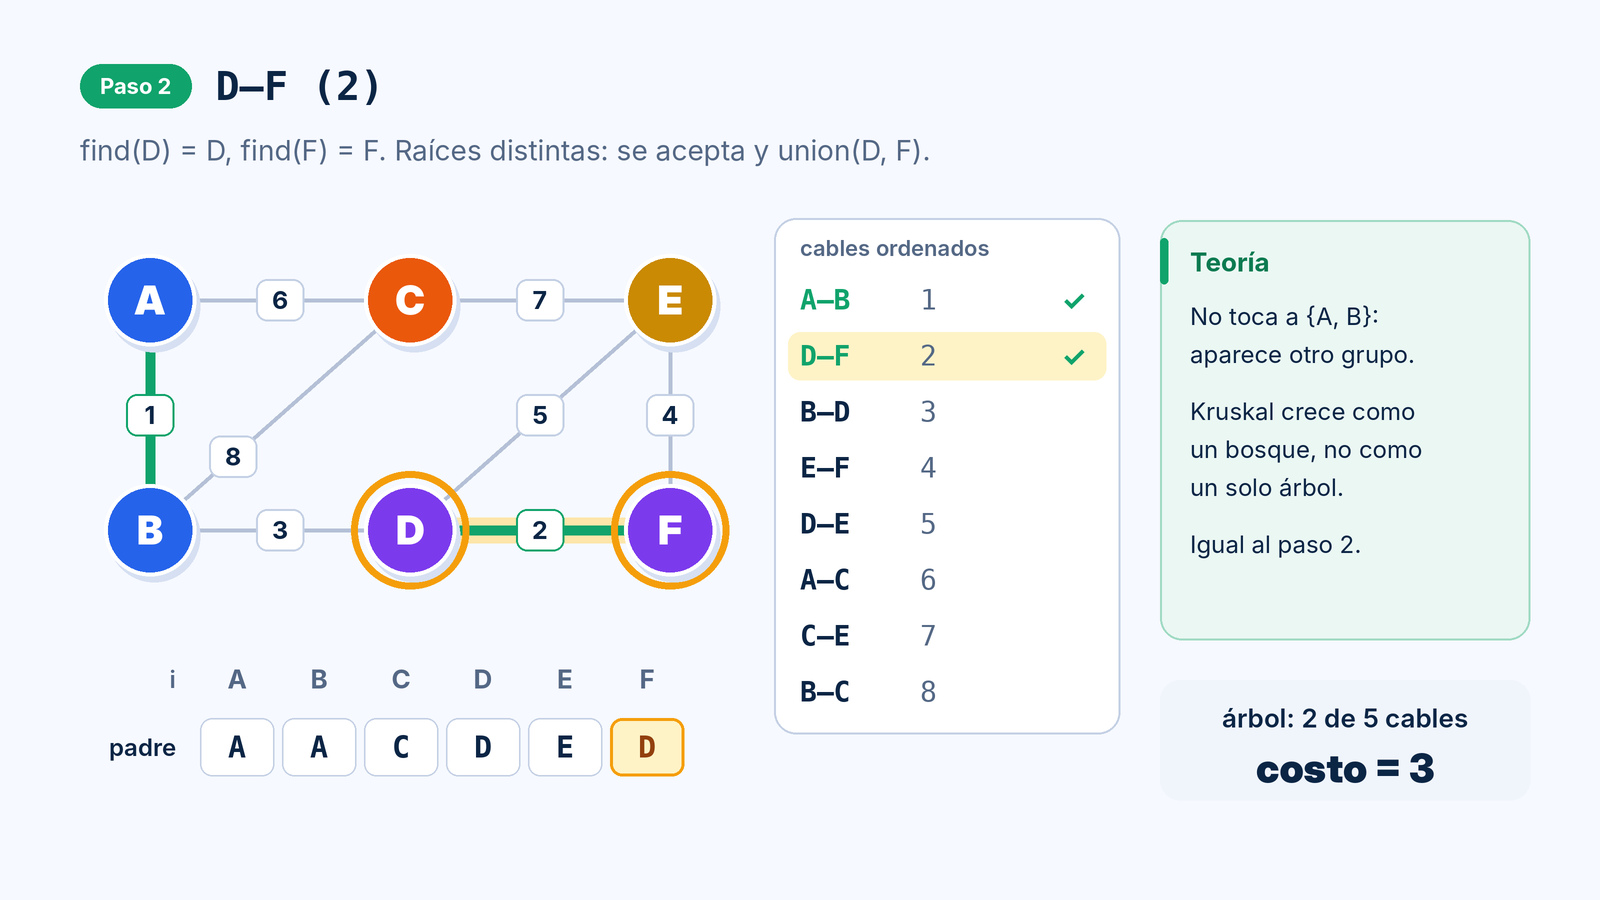
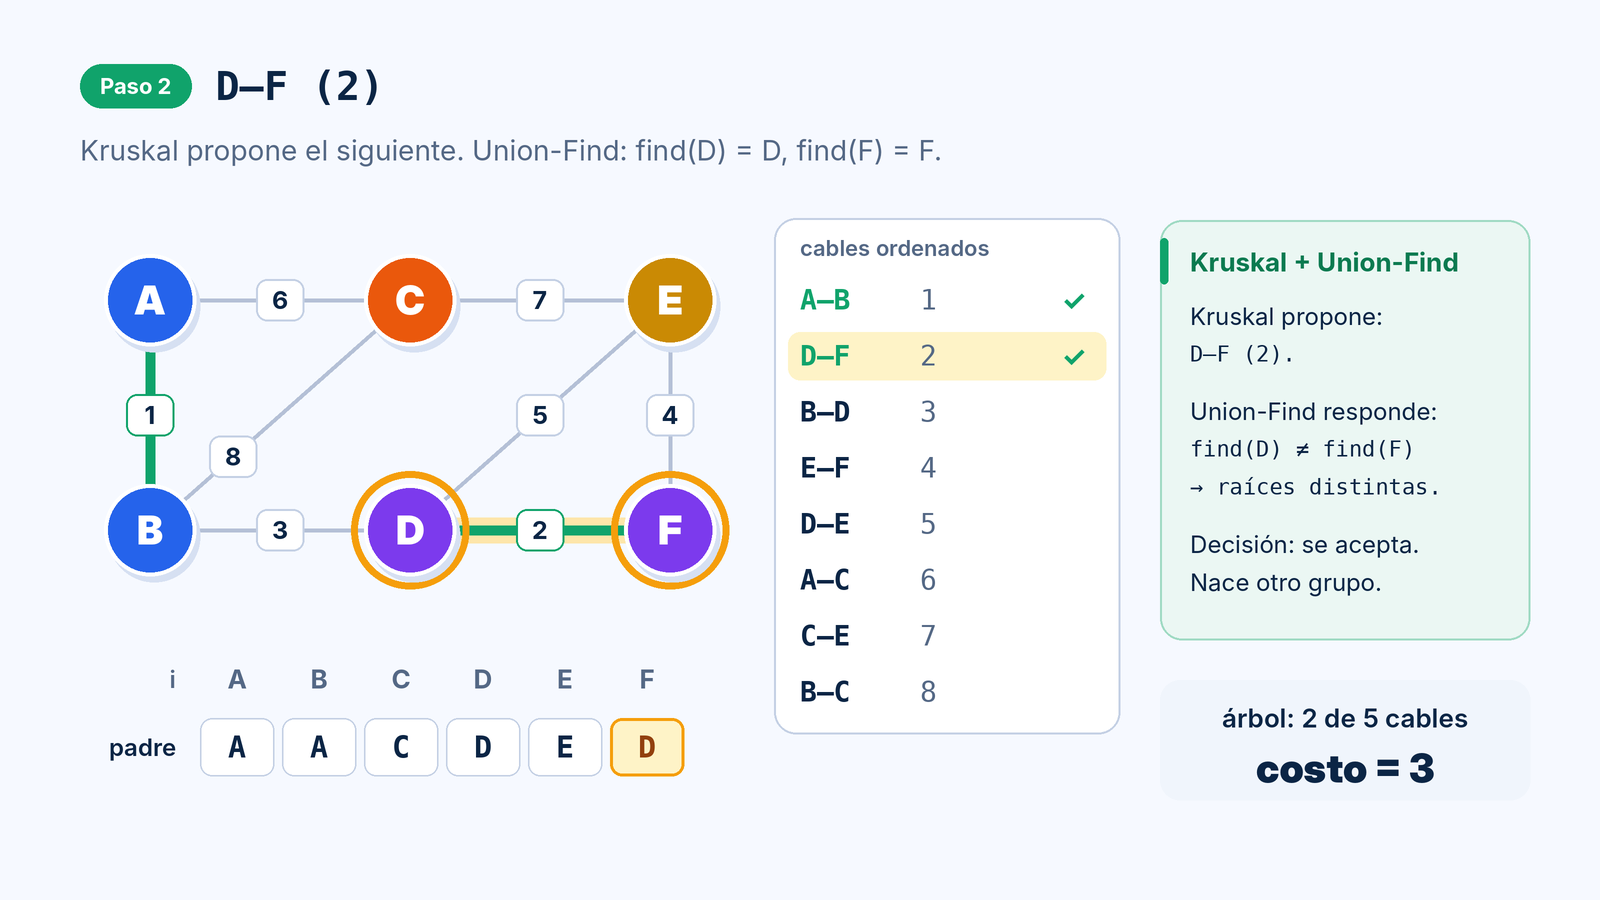
Datos

diff --git a/docs/index.html b/docs/index.html
@@ -203,7 +203,7 @@ function kruskalTrace(){
   const log=[["h","Cables ordenados: "+CABLES.map(([w,u,v])=>`${u}-${v}(${w})`).join(", ")]];
   steps.push({op:"ordenar cables", tag:"Paso 0", color:"blue", cur:-1, st:[...st], costo, arbol, log:[...log], uf:clone(uf),
     desc:"Se ordenan los 8 cables de menor a mayor costo. Nadie está conectado todavía.",
-    th:["Kruskal es voraz","1) ordenar por costo · 2) tomar cada cable si no forma ciclo · 3) parar al tener V − 1 cables (aquí 5). El paso 2 lo resuelve Union-Find."]});
+    th:["Kruskal decide el orden; Union-Find, el sí o el no","Con cada cable: Kruskal propone el siguiente más barato, Union-Find responde si sus dos computadoras tienen la misma raíz, y se decide. Misma raíz: ciclo, se descarta. Raíces distintas: se acepta y union las junta. Se para al tener V − 1 = 5 cables."]});
   const TH = {
     "A-B":["Raíces distintas","find(A)=A y find(B)=B: no hay camino entre A y B. Se acepta y union los junta. Es el paso 1 de la sección 1."],
     "D-F":["Crece como bosque","D–F no toca a {A, B}: aparece un segundo grupo. Kruskal no crece como un solo árbol sino como un bosque que se va uniendo."],
@@ -219,7 +219,7 @@ function kruskalTrace(){
              ["s",`   padre = [${uf.padre.map(p=>N[p]).join(", ")}]   árbol: ${arbol} de 5   costo = ${costo}`]);
     const key=`${u}-${v}`;
     steps.push({op:`${u}–${v} (${w})`, tag:`Paso ${i+1}`, color: ok?"green":"red", cur:i, st:[...st], costo, arbol, uf:clone(uf), log:[...log], focus:[u,v],
-      result: ok?"acepta":"rechaza", desc:`find(${u}) = ${N[ru]}, find(${v}) = ${N[rv]}. ` + (ok?"Raíces distintas: se acepta el cable y se hace union.":"Misma raíz: el cable cerraría un ciclo, se descarta."),
+      result: ok?"acepta":"rechaza", desc:`Kruskal propone ${u}–${v} (${w}). Union-Find: find(${u}) = ${N[ru]}, find(${v}) = ${N[rv]}. ` + (ok?"Raíces distintas: no hay camino entre ellas, se acepta y union las junta.":"Misma raíz: ya hay camino entre ellas, el cable cerraría un ciclo y se descarta."),
       th:TH[key]});
     if(arbol===5) break;
   }

diff --git a/tools/gen_media.py b/tools/gen_media.py
@@ -270,12 +270,12 @@ uf_step(T + "paso7.png", "Paso 7", "cable A–C  ·  union(A, C)",
         badge=("True · red cerrada", GREEN, GREEN_BG), color=GREEN)
 
 # ================= Sección 2 · Kruskal =================
-def k_step(name, k, paso, titulo, sub, teoria, color, changed=()):
+def k_step(name, k, paso, titulo, sub, teoria, color, changed=(), ctitle="Kruskal + Union-Find"):
     c = Canvas(); header(c, paso, titulo, sub, color)
     par, rk, st, total, _ = kstate(k)
     draw_net(c, st, k, colors=[SET[root(par, i)] for i in range(6)] if k >= 0 else None)
     edge_list(c, st, k)
-    card(c, (1160, 220, 1530, 640), "Teoría", teoria, color, sz=24, gap=38)
+    card(c, (1160, 220, 1530, 640), ctitle, teoria, color, sz=24, gap=38)
     arrays(c, par, None, changed, y=650, x0=200, cw=74)
     acc = st.count("a")
     c.rect((1160, 680, 1530, 800), 20, fill=GREEN_BG if acc == 5 else (240, 245, 252))
@@ -284,20 +284,33 @@ def k_step(name, k, paso, titulo, sub, teoria, color, changed=()):
     c.save(name)
 
 T = "s2_"
-k_step(T + "paso0.png", -1, "Paso 0", "ordenar los cables", "Volvemos a empezar, pero ahora el orden lo decide el algoritmo: del cable más barato al más caro.",
-       ["Kruskal es voraz:", "", "1. ordenar por peso", "2. tomar el cable si", "   no forma ciclo", "3. parar con V − 1", "   cables (aquí 5)", "", "Para 2 usa Union-Find."], BLUE)
-k_step(T + "paso1.png", 0, "Paso 1", "A–B (1)", "find(A) = A, find(B) = B. Raíces distintas: se acepta y union(A, B).",
-       ["Raíces distintas", "  → no hay camino", "  entre A y B.", "", "Se acepta el cable", "y union los junta.", "", "Es el paso 1 de la", "sección 1."], GREEN, {(0, 1)})
-k_step(T + "paso2.png", 1, "Paso 2", "D–F (2)", "find(D) = D, find(F) = F. Raíces distintas: se acepta y union(D, F).",
-       ["No toca a {A, B}:", "aparece otro grupo.", "", "Kruskal crece como", "un bosque, no como", "un solo árbol.", "", "Igual al paso 2."], GREEN, {(0, 5)})
-k_step(T + "paso3.png", 2, "Paso 3", "B–D (3)", "find(B) = A, find(D) = D. Raíces distintas: se unen los dos grupos.",
-       ["Une {A, B} con {D, F}.", "", "Rangos 1 y 1:", "D cuelga de A y", "rango[A] = 2.", "", "Mismo resultado que", "el paso 3 de la", "sección 1."], GREEN, {(0, 3)})
-k_step(T + "paso4.png", 3, "Paso 4", "E–F (4)", "find(E) = E, find(F) = A (y F se comprime). Raíces distintas: se acepta.",
-       ["find(F): F → D → A", "y comprime: F → A.", "", "rango[E] = 0 < 2:", "E cuelga de A.", "", "Es el paso 4 de la", "sección 1."], GREEN, {(0, 4), (0, 5)})
-k_step(T + "paso5.png", 4, "Paso 5", "D–E (5)", "find(D) = A y find(E) = A. Misma raíz: el cable cerraría un ciclo, se descarta.",
-       ["Ya hay camino:", "  D – F – E", "", "union devuelve False", "  → se rechaza.", "", "Es el paso 6 de la", "sección 1."], RED)
-k_step(T + "paso6.png", 5, "Paso 6", "A–C (6)", "find(A) = A, find(C) = C. Se acepta: ya son 5 cables = V − 1. Termina.",
-       ["5 cables = V − 1", "  → árbol completo.", "", "C–E (7) y B–C (8)", "ni se revisan.", "", "Todas las raíces", "son A: un conjunto."], GREEN, {(0, 2)})
+k_step(T + "paso0.png", -1, "Paso 0", "Kruskal ordena los cables", "Primero se ordenan los 8 cables del más barato al más caro. Todavía nadie está conectado.",
+       ["Kruskal es voraz:", "", "1. ordenar por peso", "2. tomar el cable si", "   no forma ciclo", "3. parar con V − 1", "   cables (aquí 5)", "El punto 2 lo decide", "Union-Find."], BLUE, ctitle="Teoría")
+k_step(T + "paso1.png", 0, "Paso 1", "A–B (1)", "Kruskal propone el cable más barato. Union-Find: find(A) = A, find(B) = B.",
+       ["Kruskal propone:", "  A–B (1).", "", "Union-Find responde:", "  find(A) ≠ find(B)", "  → raíces distintas.", "", "Decisión: se acepta.", "B cuelga de A."], GREEN, {(0, 1)})
+k_step(T + "paso2.png", 1, "Paso 2", "D–F (2)", "Kruskal propone el siguiente. Union-Find: find(D) = D, find(F) = F.",
+       ["Kruskal propone:", "  D–F (2).", "", "Union-Find responde:", "  find(D) ≠ find(F)", "  → raíces distintas.", "", "Decisión: se acepta.", "Nace otro grupo."], GREEN, {(0, 5)})
+k_step(T + "paso3.png", 2, "Paso 3", "B–D (3)", "Union-Find compara raíces, no elementos: find(B) = A y find(D) = D.",
+       ["Kruskal propone:", "  B–D (3).", "", "Union-Find responde:", "  find(B) = A", "  find(D) = D", "", "Decisión: se acepta.", "Se unen los grupos."], GREEN, {(0, 3)})
+k_step(T + "paso4.png", 3, "Paso 4", "E–F (4)", "find(F) sube F → D → A y comprime el camino: F queda apuntando a A.",
+       ["Kruskal propone:", "  E–F (4).", "", "Union-Find responde:", "  find(E) = E", "  find(F) = A", "", "Decisión: se acepta.", "E cuelga de A."], GREEN, {(0, 4), (0, 5)})
+k_step(T + "paso5.png", 4, "Paso 5", "D–E (5)", "find(D) = A y find(E) = A. Misma raíz: ya están conectados por D–F–E.",
+       ["Kruskal propone:", "  D–E (5).", "", "Union-Find responde:", "  find(D) = find(E)", "  → misma raíz.", "", "Decisión: se descarta,", "cerraría un ciclo."], RED)
+k_step(T + "paso6.png", 5, "Paso 6", "A–C (6)", "find(A) = A, find(C) = C. C era la única sin conectar. Ya son 5 cables.",
+       ["Kruskal propone:", "  A–C (6).", "", "Union-Find responde:", "  find(A) ≠ find(C)", "", "Decisión: se acepta.", "5 cables = V − 1:", "Kruskal para."], GREEN, {(0, 2)})
+
+def k_apoyo(name):
+    c = Canvas(); header(c, "Apoyo", "Kruskal se apoya en Union-Find", "Con cada cable: Kruskal propone, Union-Find responde y se decide.", BLUE)
+    card(c, (80, 220, 520, 640), "Kruskal", ["Ordena los cables del", "más barato al más caro", "y propone uno por uno.", "", "Decide el orden."], GREEN, sz=26, gap=44)
+    card(c, (560, 220, 1040, 640), "Union-Find", ["Responde una sola cosa:", "", "  find(u) == find(v) ?", "", "¿Tienen la misma raíz?", "Decide el sí o el no."], BLUE, sz=26, gap=44)
+    card(c, (1080, 220, 1520, 420), "Raíces distintas", ["No hay camino → se acepta", "y union junta los grupos."], GREEN, sz=24, gap=40)
+    card(c, (1080, 440, 1520, 640), "Misma raíz", ["Ya hay camino → cerraría", "un ciclo → se descarta."], RED, sz=24, gap=40)
+    c.rect((80, 680, 1520, 850), 22, fill=(237, 233, 254))
+    c.text((800, 730), "El costo del cable solo decide el orden, nunca el sí o el no.", "bold", 30, (76, 29, 149), "mm")
+    c.text((800, 782), "D–E cuesta apenas 5 y aun así se descarta: D y E ya estaban conectados.", "reg", 27, INK, "mm")
+    c.text((800, 822), "Por dentro, unión por rango y compresión de caminos mantienen find casi constante.", "reg", 25, MUTED, "mm")
+    c.save(name)
+k_apoyo("s2_apoyo.png")
 
 def resultado(name):
     c = Canvas(); header(c, "Resultado", "Árbol de expansión mínima", "Las 6 computadoras conectadas, sin ciclos y con el menor costo.", GREEN)
@@ -320,8 +333,8 @@ resultado("s2_resultado.png")
 def problema(name):
     c = Canvas(); header(c, "El problema", "6 computadoras, 8 cables", "Hay que conectarlas todas gastando lo menos posible en cable.", INK)
     draw_net(c, ["p"] * 8, gx=170, gy=330, dx=310, dy=300)
-    qs = [(250, "¿A y F ya están conectadas?", "Sección 1 · Union-Find", "find(A) == find(F)", BLUE),
-          (470, "¿Qué cables compro?", "Sección 2 · Kruskal", "menor costo, sin ciclos", GREEN)]
+    qs = [(250, "¿Qué cables compro?", "Kruskal · propone del más barato al más caro", "menor costo, sin ciclos", GREEN),
+          (470, "¿Estas dos ya están conectadas?", "Union-Find · decide si el cable se acepta", "find(u) == find(v)", BLUE)]
     for y, q, s, d, col in qs:
         c.rect((900, y, 1530, y + 190), 24, fill=mix(col, WHITE, 0.9), outline=mix(col, WHITE, 0.55), w=2)
         c.text((935, y + 48), q, "bold", 30, INK, "lm")
@@ -333,7 +346,7 @@ problema("problema.png")
 
 def portada(name, num, titulo, sub, items, col):
     c = Canvas(); c.im.paste(mix(col, (8, 16, 40), 0.55), [0, 0, W * S, H * S])
-    c.text((110, 200), f"Sección {num}", "semi", 34, mix(col, WHITE, 0.6), "lm")
+    c.text((110, 200), num if isinstance(num, str) else f"Sección {num}", "semi", 34, mix(col, WHITE, 0.6), "lm")
     c.text((106, 300), titulo, "black", 120, WHITE, "lm")
     c.text((110, 400), sub, "reg", 32, mix(col, WHITE, 0.75), "lm")
     for i, it in enumerate(items):
@@ -343,8 +356,8 @@ def portada(name, num, titulo, sub, items, col):
     c.save(name)
 portada("s1_portada.png", 1, "Union-Find", "¿Estas dos computadoras ya están conectadas?",
         ["Teoría: cada grupo es un árbol", "Instalamos los primeros cables uno por uno", "Código y lo que imprime"], BLUE)
-portada("s2_portada.png", 2, "Kruskal", "¿Qué cables compro para conectarlas todas al menor costo?",
-        ["Teoría: algoritmo voraz + Union-Find", "Paso a paso sobre la misma red (6 pasos)", "Resultado, código y lo que imprime"], GREEN)
+portada("s2_portada.png", "Demo · paso a paso", "Kruskal + Union-Find", "¿Qué cables compro para conectarlas todas al menor costo?",
+        ["Kruskal ordena los cables de menor a mayor peso", "Union-Find decide cuáles se aceptan", "Resultado y código de los dos"], GREEN)
 
 def teoria_uf(name):
     c = Canvas(); header(c, "Teoría", "Union-Find", "Estructura para conjuntos disjuntos: cada conjunto es un árbol y su raíz lo representa.")

diff --git a/README.md b/README.md
@@ -385,57 +385,103 @@ def kruskal(n, aristas, verbose=False):
     return arbol, costo
 ```
 
-### Paso 0 · ordenar los cables
+### Quién decide qué
+
+Para que los dos algoritmos no se revuelvan, conviene separar sus trabajos. Con
+**cada cable** pasa lo mismo, siempre en este orden:
+
+| | Quién | Qué hace |
+|:---:|---|---|
+| 1 | **Kruskal** | Propone el siguiente cable más barato (por eso se ordenan al inicio). |
+| 2 | **Union-Find** | Responde una sola pregunta: ¿`find(u)` y `find(v)` tienen la **misma raíz**? |
+| 3 | **Decisión** | Misma raíz: ya hay camino entre ellas, el cable cerraría un ciclo y se **descarta**. Raíces distintas: se **acepta** y `union` junta los dos grupos. |
+
+**Kruskal decide el orden; Union-Find decide el sí o el no.** El costo del cable
+solo interviene en el orden en que se preguntan, nunca en la respuesta. Por eso
+un cable puede ser barato y aun así rechazarse: `D–E` cuesta 5, pero se descarta
+porque `D` y `E` ya estaban conectados.
+
+Al aceptar, `union` cuelga la raíz de menor rango de la de mayor rango (si
+empatan, una cuelga de la otra y su rango sube 1).
+
+### Paso 0 · Kruskal ordena los cables
 
 ![Paso 0](media/s2_paso0.png)
 
-Se ordenan los 8 cables de menor a mayor costo. Todavía nadie está conectado:
-cada computadora es su propio conjunto.
+- **Kruskal:** ordena los 8 cables de menor a mayor costo: `A–B (1)`, `D–F (2)`,
+  `B–D (3)`, `E–F (4)`, `D–E (5)`, `A–C (6)`, `C–E (7)`, `B–C (8)`.
+- **Union-Find:** `UnionFind(6)`. Cada computadora es su propio conjunto.
+- **Estado:** `conjuntos = 6` · árbol 0 de 5 · costo 0. Todavía no se decide nada.
 
-### Paso 1 · `A–B (1)` ✓
+### Paso 1 · `A–B (1)` ✓ se acepta
 
 ![Paso 1](media/s2_paso1.png)
 
-`find(A) = A`, `find(B) = B`. Raíces distintas: no hay camino entre ellas, así
-que se acepta y `union(A, B)` las junta. Es literalmente el paso 1 de la sección 1:
-los tres cables más baratos son los mismos que instalamos a mano.
+- **Kruskal propone:** `A–B`, el más barato.
+- **Union-Find responde:** `find(A) = A` y `find(B) = B`. Raíces distintas: no hay
+  camino entre ellas.
+- **Decisión:** se acepta. En `union(A, B)` los rangos empatan (0 y 0), `B` cuelga
+  de `A` y `rango[A]` sube a 1. Es el paso 1 de la sección 1.
+- **Estado:** `conjuntos = 5` · árbol 1 de 5 · costo 1
 
-### Paso 2 · `D–F (2)` ✓
+### Paso 2 · `D–F (2)` ✓ se acepta
 
 ![Paso 2](media/s2_paso2.png)
 
-`find(D) = D`, `find(F) = F`. Se acepta. No toca a `{A, B}`: Kruskal crece como
-un **bosque** que se va uniendo, no como un solo árbol.
+- **Kruskal propone:** `D–F`, el siguiente más barato.
+- **Union-Find responde:** `find(D) = D` y `find(F) = F`. Raíces distintas.
+- **Decisión:** se acepta. Los rangos empatan, `F` cuelga de `D` y `rango[D]` sube
+  a 1. No toca a `{A, B}`: ahora hay **dos árboles separados**, un bosque. Es el
+  paso 2 de la sección 1.
+- **Estado:** `conjuntos = 4` · árbol 2 de 5 · costo 3
 
-### Paso 3 · `B–D (3)` ✓
+### Paso 3 · `B–D (3)` ✓ se acepta
 
 ![Paso 3](media/s2_paso3.png)
 
-`find(B) = A`, `find(D) = D`. Se acepta y se unen los dos grupos. Rangos 1 y 1:
-`D` cuelga de `A` y `rango[A] = 2`. Igual que el paso 3 de la sección 1.
+- **Kruskal propone:** `B–D`.
+- **Union-Find responde:** `find(B)` sube `B → A` y da `A`; `find(D) = D`. Raíces
+  distintas. Se comparan las **raíces**, no los elementos: `B` y `D` no tienen que
+  ser raíces.
+- **Decisión:** se acepta. Rangos 1 y 1: el árbol de `D` completo cuelga de `A` y
+  `rango[A]` sube a 2. Los dos árboles se vuelven uno. Es el paso 3 de la sección 1.
+- **Estado:** `conjuntos = 3` · árbol 3 de 5 · costo 6
 
-### Paso 4 · `E–F (4)` ✓
+### Paso 4 · `E–F (4)` ✓ se acepta
 
 ![Paso 4](media/s2_paso4.png)
 
-`find(E) = E`. `find(F)` recorre `F → D → A` y **comprime**: `F` queda apuntando
-a `A`. Como `rango[E] = 0 < rango[A] = 2`, `E` cuelga de `A`. Es el paso 4 de la
-sección 1.
+- **Kruskal propone:** `E–F`.
+- **Union-Find responde:** `find(E) = E`. `find(F)` recorre `F → D → A` y, de paso,
+  **comprime**: `F` queda apuntando a `A`. Raíces distintas (`E` y `A`).
+- **Decisión:** se acepta. `rango[E] = 0 < rango[A] = 2`, así que `E` cuelga de `A`
+  y ningún rango sube. Es el paso 4 de la sección 1.
+- **Estado:** `conjuntos = 2` · árbol 4 de 5 · costo 10
 
-### Paso 5 · `D–E (5)` ✗ ciclo
+### Paso 5 · `D–E (5)` ✗ se descarta
 
 ![Paso 5](media/s2_paso5.png)
 
-`find(D) = A` y `find(E) = A`. **Misma raíz**: `D` y `E` ya están conectados por
-`D–F–E`, así que este cable cerraría un ciclo. `union` regresa `False` y se
-descarta. Es el paso 6 de la sección 1.
+- **Kruskal propone:** `D–E`, que cuesta apenas 5.
+- **Union-Find responde:** `find(D) = A` y `find(E) = A`. **Misma raíz**: `D` y `E`
+  ya están conectados por `D–F–E`.
+- **Decisión:** se descarta. Este cable cerraría un ciclo, así que `union` regresa
+  `False` y no cambia nada. Es el paso 6 de la sección 1.
+- **Estado:** `conjuntos = 2` · árbol 4 de 5 · costo 10 (sin cambio)
 
-### Paso 6 · `A–C (6)` ✓ y termina
+### Paso 6 · `A–C (6)` ✓ se acepta y termina
 
 ![Paso 6](media/s2_paso6.png)
 
-`find(A) = A`, `find(C) = C`. Se acepta. Ya son 5 cables, `V − 1`, así que el
-árbol está completo: `C–E (7)` y `B–C (8)` ni se revisan.
+- **Kruskal propone:** `A–C`.
+- **Union-Find responde:** `find(A) = A` y `find(C) = C`. Raíces distintas: `C` era la
+  única computadora sin conectar.
+- **Decisión:** se acepta. `rango[C] = 0 < rango[A] = 2`, así que `C` cuelga de `A`.
+  Es el paso 7 de la sección 1.
+- **Estado:** `conjuntos = 1` · árbol 5 de 5 · costo 16
+
+Ya hay `V − 1 = 5` cables, así que Kruskal se detiene: `C–E (7)` y `B–C (8)` ni se
+le preguntan a Union-Find.
 
 ### Resultado
 
